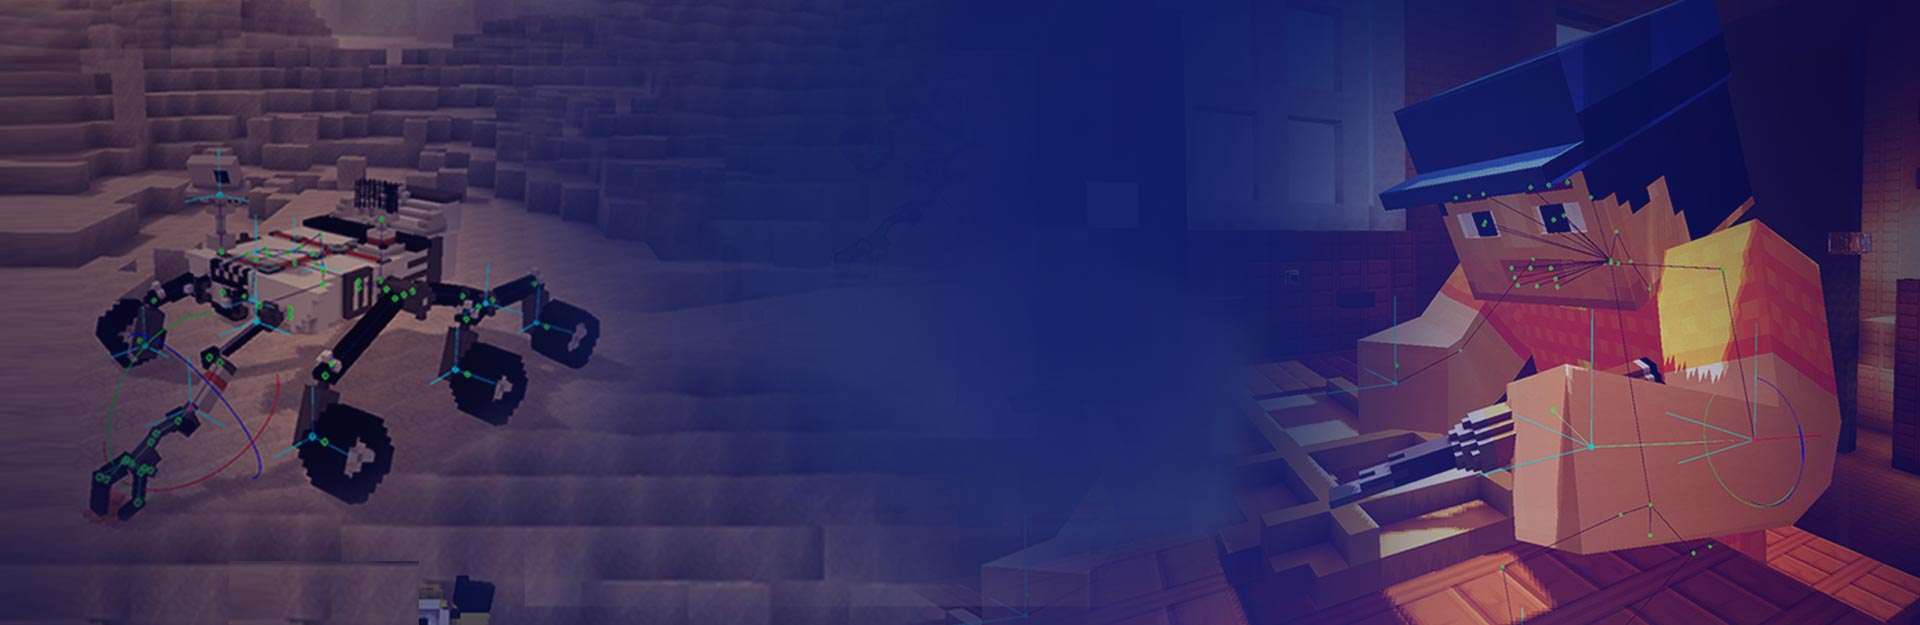
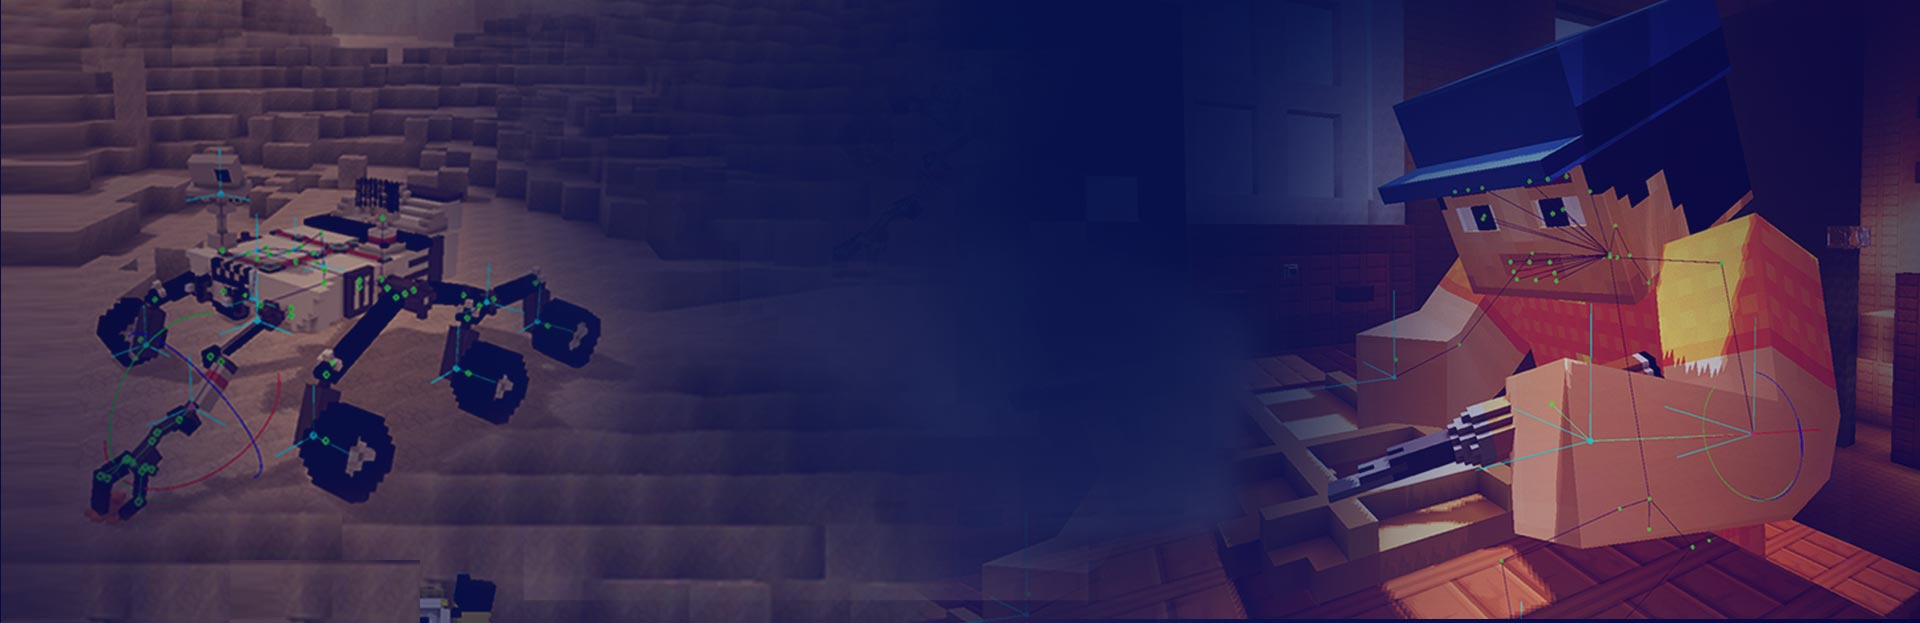
首页、登录、注册细节fix

diff --git a/src/components/join.vue b/src/components/join.vue
@@ -2,7 +2,7 @@
   <div class="join-form">
     <img @click="closeDialog" class="close-btn" src="@/assets/pac/close.png" alt="">
     <h1 class="title">
-      <img src="@/assets/pac/form_big_dot_left.png" alt="">账号注册<img src="@/assets/pac/form_big_dot_right.png" alt="">
+      <img src="@/assets/pac/form_big_dot_left.png" alt="">账号注册<img class="rotate-180-deg" src="@/assets/pac/form_big_dot_left.png" alt="">
     </h1>
     <div class="form">
       <div class="input-group">
@@ -23,8 +23,10 @@
         <input v-model="code" class="input-content" type="text" name="code" placeholder="请输入验证码">
         <div class="get-code-btn" :class="{'get-code-btn-disabled': reSendCodeTime>0}" @click='getVerifyCode'>{{sendCodeBtnText}}</div>
       </div>
-      <div class="agree-service-line" @click="toggleAgreeServices">
-        <span class="fake-checkbox" :class="{'active': isAgreeService}"></span>申请即视为同意<a href="#" target="_blank">《Keepwork用户协议》</a>
+      <div class="agree-service-line">
+        <span class="fake-checkbox" :class="{'active': isAgreeService}" @click="toggleAgreeServices"></span>
+        <span @click="toggleAgreeServices">申请即视为同意</span>
+        <a href="http://keepwork.com/wiki/license" target="_blank">《Keepwork用户协议》</a>
       </div>
       <p class="error-msg" v-show="joinErrMsg">{{joinErrMsg}}</p>
       <div class="register-button" :class="{'active': isAgreeService}" @click='toRegister'>
@@ -52,7 +54,7 @@ export default {
     sendCodeBtnText() {
       return this.reSendCodeTime > 0
         ? `重新发送(${this.reSendCodeTime}s)`
-        : '发送验证码'
+        : '获取验证码'
     }
   },
   data() {
@@ -273,17 +275,43 @@ export default {
     padding: 15px;
     cursor: pointer;
   }
+  .rotate-180-deg {
+    transform: rotate(180deg);
+  }
+  input:focus{
+    outline: none;
+  }
   .form {
     padding: 0 20px;
   }
   .title {
-    border-bottom: 7px solid #dcdcdc;
+    position: relative;
     padding-bottom: 40px;
     margin-bottom: 30px;
-    img{
+    img {
       vertical-align: middle;
       margin: 0 15px;
     }
+  }
+  .title::before {
+    content: '';
+    position: absolute;
+    left: 0;
+    right: 0;
+    height: 7px;
+    background-color: #dcdcdc;
+    bottom: 0;
+  }
+  .title::after {
+    content: '';
+    position: absolute;
+    left: 25px;
+    right: 25px;
+    bottom: 0;
+    height: 7px;
+    background-color: #dcdcdc;
+    border: 16px solid #fff;
+    border-width: 0 16px;
   }
   .input-group {
     border: 5px solid #e0e0e0;
@@ -311,31 +339,23 @@ export default {
   }
   .register-button {
     width: 100%;
-    border: 4px solid;
     height: 65px;
-    line-height: 50px;
     font-size: 20px;
-    background-color: #fef50c;
-    color: #434103;
     font-weight: bold;
     position: relative;
     margin: 32px 0 22px;
     box-sizing: border-box;
     opacity: 0.5;
     cursor: not-allowed;
+    line-height: 60px;
+    background-color: #3b5bed;
+    color: #fff;
+    box-shadow: inset 0 -8px 0 0 #273da4;
+    border-radius: 4px;
   }
-  .register-button.active{
+  .register-button.active {
     opacity: 1;
     cursor: pointer;
-  }
-  .register-button::after {
-    content: '';
-    width: 100%;
-    height: 10px;
-    background-color: #cdc401;
-    position: absolute;
-    left: 0;
-    bottom: 0;
   }
   .error-msg {
     text-align: left;
@@ -349,19 +369,26 @@ export default {
     background-color: #faac23;
     color: #434103;
     font-weight: bold;
-    outline: 5px solid;
     box-sizing: border-box;
     cursor: pointer;
+    margin: -5px;
+    box-shadow: 0 10px 0 0 #c89f2e;
+    height: 100%;
+    line-height: 55px;
   }
   .get-code-btn-disabled {
     cursor: not-allowed;
     opacity: 0.8;
   }
-  .agree-service-line{
+  .agree-service-line {
     text-align: left;
     padding-left: 12px;
     cursor: pointer;
     margin-bottom: 16px;
+    a {
+      text-decoration: none;
+      color: #237efa;
+    }
   }
   .fake-checkbox {
     display: inline-block;
@@ -373,7 +400,7 @@ export default {
     margin-right: 10px;
     position: relative;
   }
-  .fake-checkbox.active::after{
+  .fake-checkbox.active::after {
     content: '';
     display: inline-block;
     width: 8px;

diff --git a/src/components/login.vue b/src/components/login.vue
@@ -1,25 +1,27 @@
 <template>
   <div class="login-form">
     <img @click="closeDialog" class="close-btn" src="@/assets/pac/close.png" alt="">
-    <h1 class="title">
-      <img src="@/assets/pac/form_big_dot_left.png" alt="">登录账号<img src="@/assets/pac/form_big_dot_right.png" alt="">
-    </h1>
-    <div class="form">
-      <div class="input-group">
-        <img class="input-addon" src="@/assets/pac/user.png" alt="">
-        <input v-model="username" class="input-content" type="text" name="username" placeholder="请输入账号">
+    <div class="login-main-content">
+      <h1 class="title">
+        <img src="@/assets/pac/form_big_dot_left.png" alt="">登录账号<img class="rotate-180-deg" src="@/assets/pac/form_big_dot_left.png" alt="">
+      </h1>
+      <div class="form">
+        <div class="input-group">
+          <img class="input-addon" src="@/assets/pac/user.png" alt="">
+          <input v-model="username" class="input-content" type="text" name="username" placeholder="请输入账号">
+        </div>
+        <div class="input-group">
+          <img class="input-addon" src="@/assets/pac/unlock.png" alt="">
+          <input v-model="password" class="input-content" type="text" name="password" placeholder="请输入密码">
+        </div>
+        <p class="error-msg" v-show="loginErrMsg">{{loginErrMsg}}</p>
+        <div class="login-button" @click='toLogin'>
+          立即登录
+        </div>
+        <p class="extra-operations">
+          <span class="to-join-button" @click="showJoinDialog">立即注册</span>
+        </p>
       </div>
-      <div class="input-group">
-        <img class="input-addon" src="@/assets/pac/unlock.png" alt="">
-        <input v-model="password" class="input-content" type="text" name="password" placeholder="请输入密码">
-      </div>
-      <p class="error-msg" v-show="loginErrMsg">{{loginErrMsg}}</p>
-      <div class="login-button" @click='toLogin'>
-        立即登录
-      </div>
-      <p class="extra-operations">
-        <span class="to-join-button" @click="showJoinDialog">立即注册</span>
-      </p>
     </div>
   </div>
 </template>
@@ -35,10 +37,10 @@ export default {
     }
   },
   methods: {
-    closeDialog(){
+    closeDialog() {
       this.$emit('close')
     },
-    showJoinDialog(){
+    showJoinDialog() {
       this.$emit('showJoinDialog')
       this.closeDialog()
     },
@@ -96,6 +98,12 @@ export default {
 .login-form {
   text-align: center;
   padding: 0 28px;
+  .rotate-180-deg {
+    transform: rotate(180deg);
+  }
+  input:focus{
+    outline: none;
+  }
   .close-btn {
     position: absolute;
     right: 0;
@@ -107,13 +115,33 @@ export default {
     padding: 0 20px;
   }
   .title {
-    border-bottom: 7px solid #dcdcdc;
     padding-bottom: 40px;
     margin-bottom: 30px;
-    img{
+    position: relative;
+    img {
       vertical-align: middle;
       margin: 0 15px;
     }
+  }
+  .title::before{
+    content: "";
+    position: absolute;
+    left: 0;
+    right: 0;
+    height: 7px;
+    background-color: #dcdcdc;
+    bottom: -7px;
+  }
+  .title::after{
+    content: "";
+    position: absolute;
+    left: 25px;
+    right: 25px;
+    bottom: -7px;
+    height: 7px;
+    background-color: #dcdcdc;
+    border: 16px solid #fff;
+    border-width: 0 16px;
   }
   .input-group {
     border: 5px solid #e0e0e0;
@@ -141,26 +169,19 @@ export default {
   }
   .login-button {
     width: 100%;
-    border: 4px solid;
     height: 65px;
-    line-height: 50px;
     font-size: 20px;
-    background-color: #fef50c;
-    color: #434103;
+    line-height: 60px;
+    background-color: #3b5bed;
+    color: #fff;
+    box-shadow: inset 0 -8px 0 0 #273da4;
+    border: none;
+    border-radius: 4px;
     font-weight: bold;
     position: relative;
     margin: 32px 0 22px;
     cursor: pointer;
     box-sizing: border-box;
-  }
-  .login-button::after {
-    content: '';
-    width: 100%;
-    height: 10px;
-    background-color: #cdc401;
-    position: absolute;
-    left: 0;
-    bottom: 0;
   }
   .extra-operations {
     span {
@@ -172,7 +193,7 @@ export default {
     text-align: left;
     color: red;
   }
-  .to-join-button{
+  .to-join-button {
     cursor: pointer;
   }
 }

diff --git a/src/components/common/header.vue b/src/components/common/header.vue
@@ -176,20 +176,21 @@ export default {
       this.joinDialogVisible = false
       this.$emit('onLogined')
     },
-    handleCommand(type){
+    handleCommand(type) {
       switch (type) {
         case 'apply':
           this.toApply()
-          break;
+          break
         default:
-          break;
+          break
       }
     }
   }
 }
 </script>
 <style lang="scss">
-.login-dialog, .join-dialog{
+.login-dialog,
+.join-dialog {
   max-width: 90%;
 }
 .header-dropdown.el-popper {
@@ -216,11 +217,13 @@ export default {
 }
 .pac-header {
   height: 70px;
-  line-height: 56px;
-  padding: 8px 0;
+  line-height: 48px;
+  padding: 11px 0;
   box-sizing: border-box;
   .brand {
     float: left;
+    top: -3px;
+    position: relative;
   }
   .container {
     width: 100%;
@@ -258,11 +261,14 @@ export default {
     color: #fff;
     font-weight: bold;
     margin-left: 24px;
+    border-radius: 4px;
+    padding: 0 20.5px;
+    font-size: 15px;
     cursor: pointer;
     img {
       margin-right: 10px;
       vertical-align: middle;
-      top: -5px;
+      top: -2px;
       position: relative;
     }
   }

diff --git a/src/components/common/banner.vue b/src/components/common/banner.vue
@@ -199,7 +199,7 @@ export default {
     text-align: center;
   }
   .buttons {
-    margin-top: 70px;
+    margin-top: 46px;
   }
   .img-btn {
     cursor: pointer;
